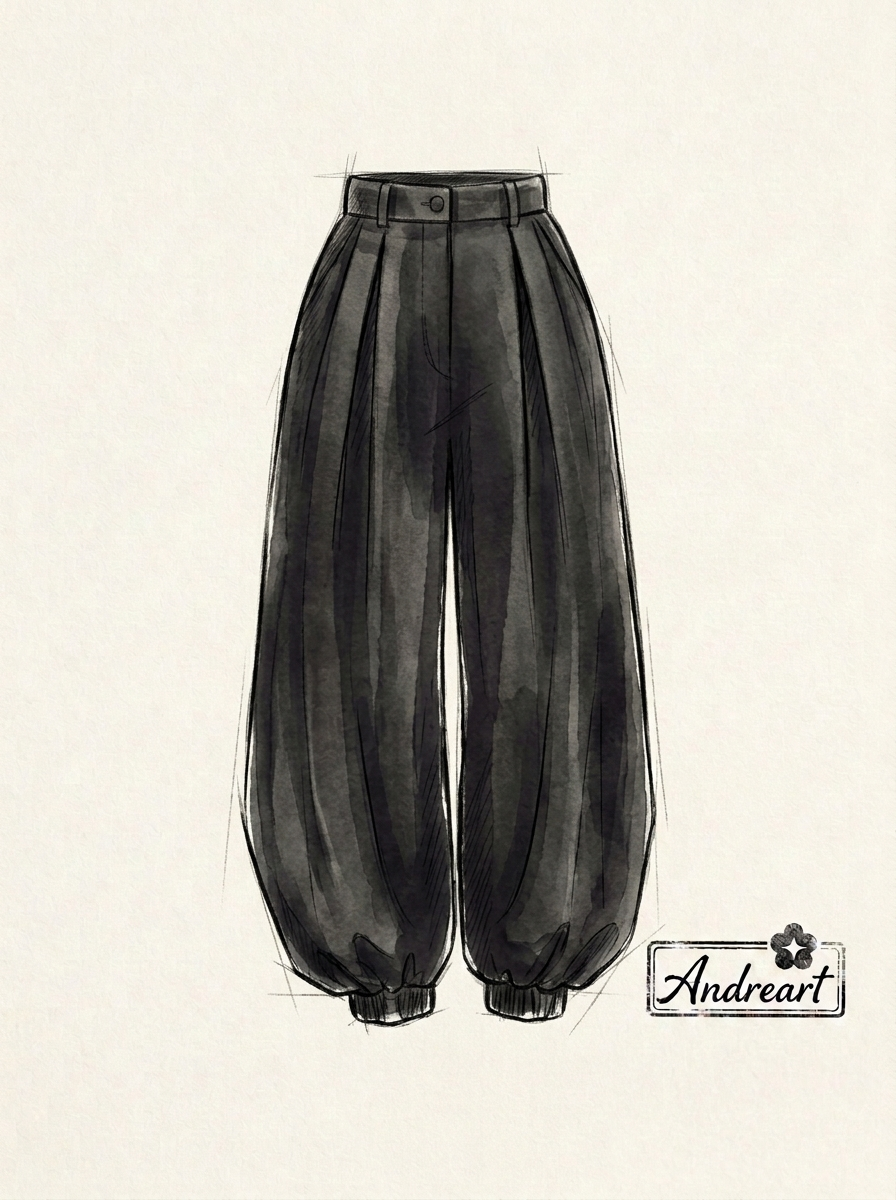
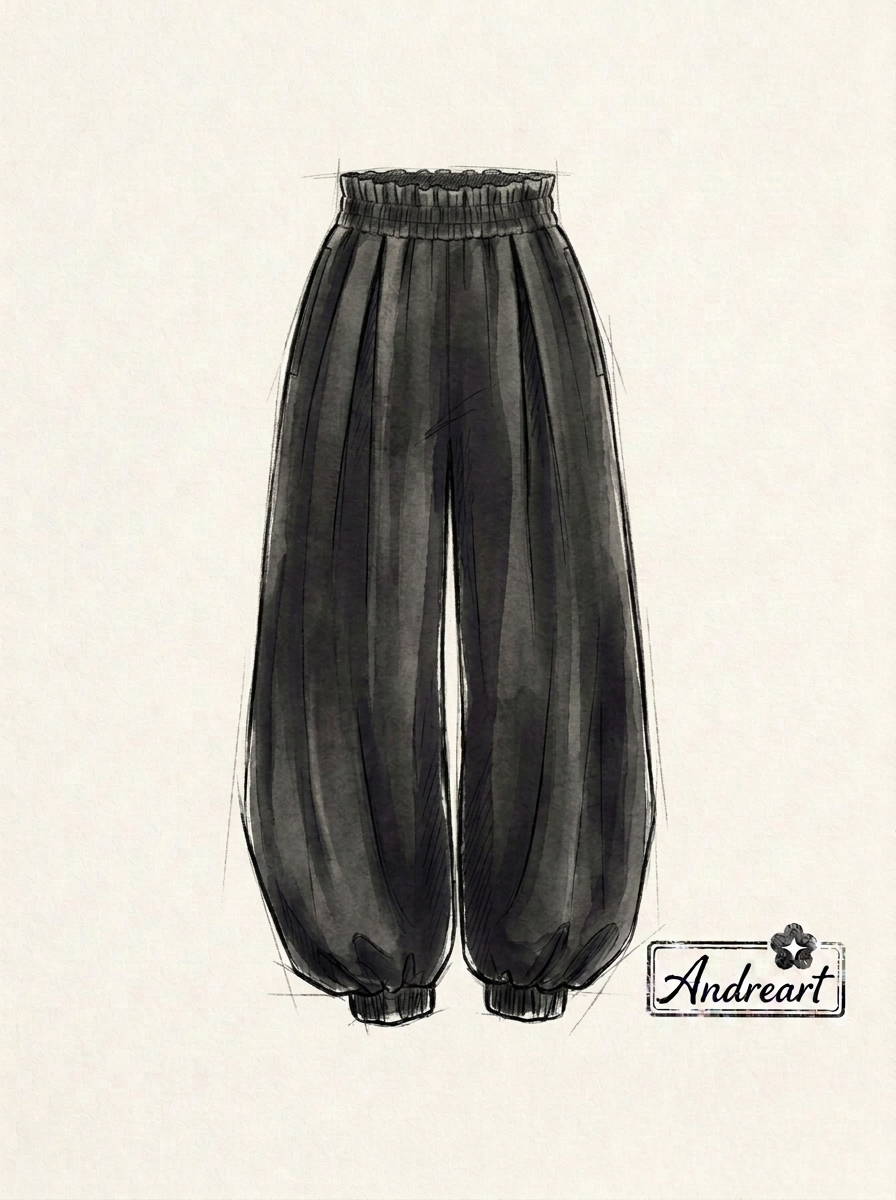
feat(kokusen): regenerate technical flats of trousers alone (front and back) with elasticated waistband
- Update 06-sketch-pantalon-frente.jpg with elasticated waistband (cintura encauchada) without belt loops or belt
- Update 07-sketch-pantalon-atras.jpg with 360-degree continuous elasticated waistband and back welt pockets
- Update SPEC.md captions

diff --git a/Andreart Brain/01 Brand Context/Colecciones/Kokusen/SPEC.md b/Andreart Brain/01 Brand Context/Colecciones/Kokusen/SPEC.md
@@ -105,12 +105,12 @@ Diseñado con dedicación artesanal y visión de autor para integrar la presenci
 ![[01 Brand Context/Colecciones/Kokusen/assets/05-sketch-chaqueta-atras.jpg]]
 *Chaqueta - Vista Trasera:* Espalda depurada con canesú sastre, hombros caídos, pretina fruncida elástica en el bajo y la capota integrada drapeada con volumen sastre sobre la parte superior de la espalda.
 
-### Pantalón Globo Plisado Kokusen (Silueta Bombacho de Alta Sastrería)
+### Pantalón Globo Plisado Kokusen (Silueta Bombacho con Cintura Encauchada)
 ![[01 Brand Context/Colecciones/Kokusen/assets/06-sketch-pantalon-frente.jpg]]
-*Pantalón Globo - Vista Delantera:* Croquis técnico a mano alzada mostrando pretina estructurada de tiro alto con pasadores, botón central, doble pliegue frontal profundo hacia el interior, volumen curvo bombacho/balloon y puños elásticos fruncidos en el tobillo sobre papel marfil con sello Andreart.
+*Pantalón Globo - Vista Delantera:* Croquis técnico a mano alzada mostrando cintura encauchada fruncida de tiro alto (sin pasadores ni cinturón), doble pliegue frontal profundo hacia el interior naciendo bajo el elástico, volumen curvo bombacho/balloon y puños elásticos fruncidos en el tobillo sobre papel marfil con sello Andreart.
 
 ![[01 Brand Context/Colecciones/Kokusen/assets/07-sketch-pantalon-atras.jpg]]
-*Pantalón Globo - Vista Trasera:* Croquis técnico a mano alzada mostrando pretina trasera con pasadores, pinzas de entalle anatómico, doble bolsillo de vivo horizontal limpio, holgura dorsal y puños elásticos en bota.
+*Pantalón Globo - Vista Trasera:* Croquis técnico a mano alzada mostrando cintura encauchada fruncida continua 360°, pinzas de entalle anatómico, doble bolsillo de vivo horizontal limpio con botón, holgura dorsal y puños elásticos en bota.
 
 ![[01 Brand Context/Colecciones/Kokusen/references/refe-pantalon-globo-01.jpg]]
 *Referencia de Diseño y Flat de Taller:* Silueta de tiro alto con pretina sastre formal, cinturón, pliegues frontales dobles profundos y bota recogida en tobillo sobre calzado cerrado. A la derecha, despiece en plano.
